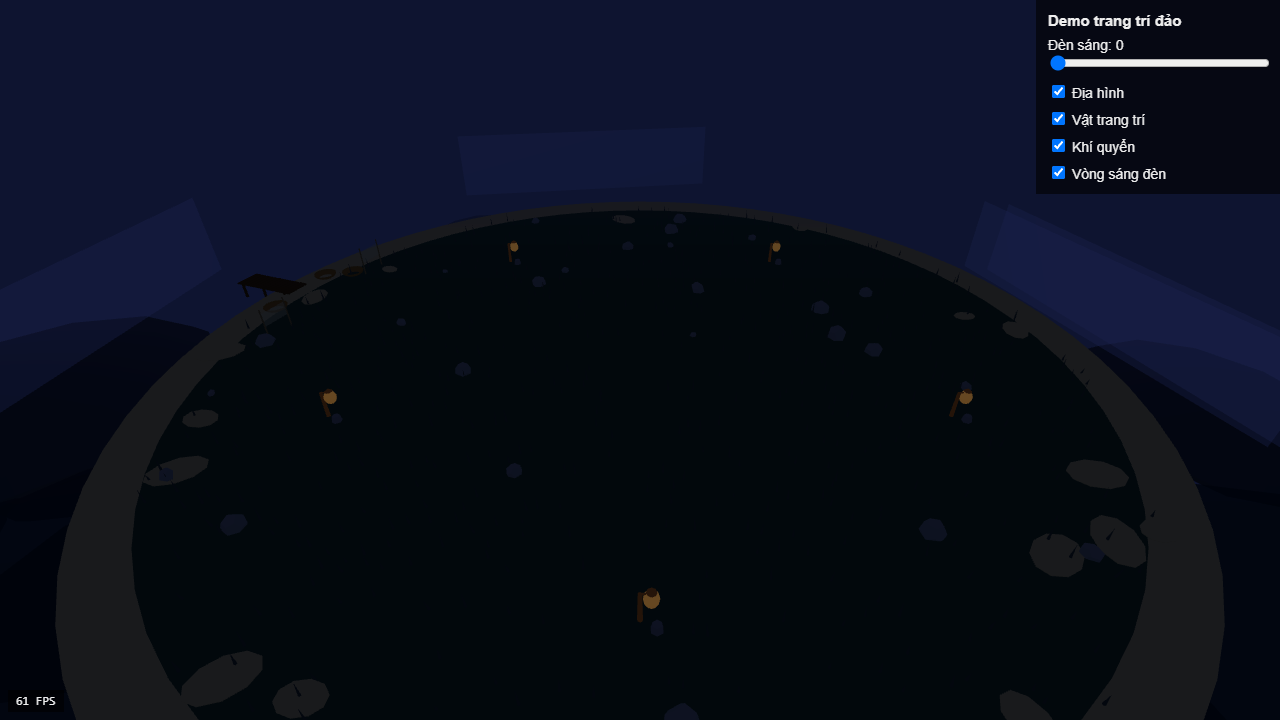
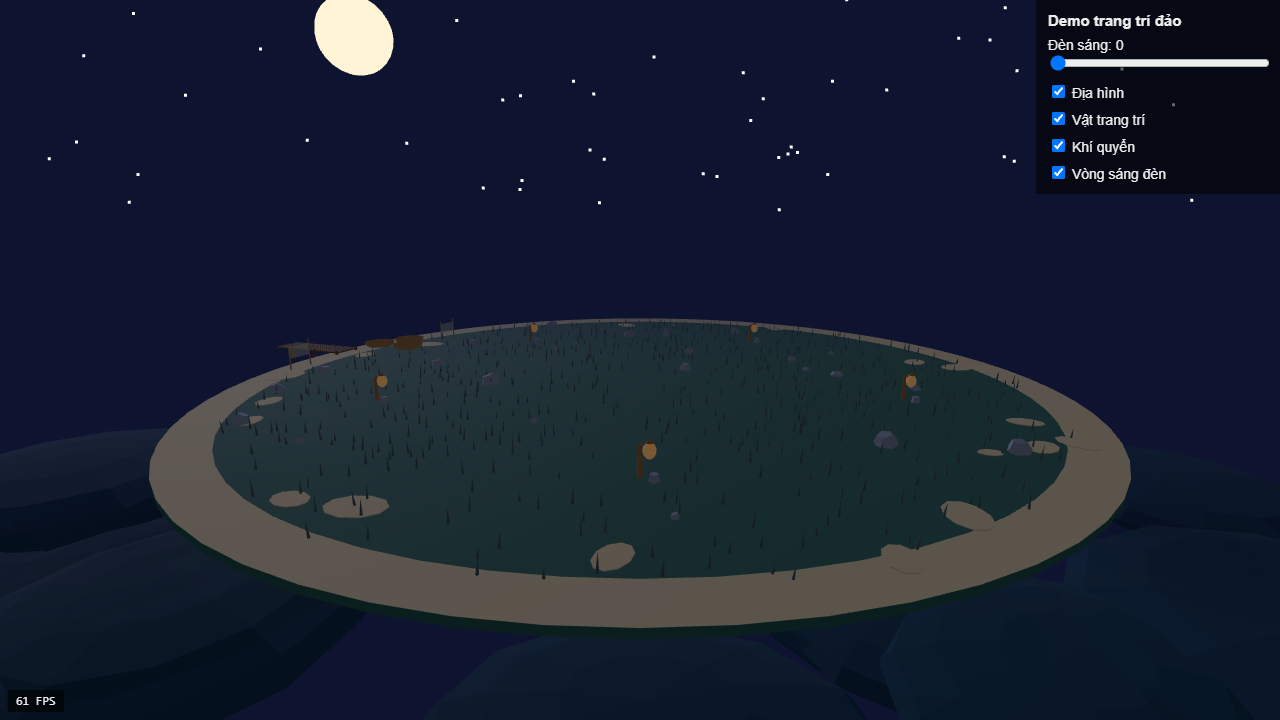
docs(decor): refresh demo evidence

diff --git a/evidence/decor-demo/README.md b/evidence/decor-demo/README.md
@@ -5,17 +5,18 @@
 (`lit` = so den long da sang, 0 den 5; co the keo thanh truot trong bang dieu khien).
 
 ## Anh chup (1280x720, Dem 1)
-- `night1-lit0.png` (`?lit=0`): dao toi, co moc, vat trang tri, den long tat (chi con than den, khong co vong sang), cau tau go ben trai, troi xanh dam.
-- `night1-lit5.png` (`?lit=5`): cung canh nhung 5 den long sang, vong sang vang quanh moi den chieu len co va da, vien dao sang hon.
+- `night1-lit0.png` (`?lit=0`): troi dem co sao va trang trong khung hinh, dao toi voi co xanh duc, vien cat am, suong mo tham duoi vien dao (khong con o chu nhat), cau tau go va thuyen thung (da phong to) o ben trai, den long tat (khong co vong sang).
+- `night1-lit5.png` (`?lit=5`): cung canh, 5 den long sang voi vong sang vang quanh moi den, co quanh den chuyen sang xanh la.
+- Keo thanh truot ve 0 sau khi `lit=5`: vong sang va co tat het (da kiem tra, anh tam).
 
 Pham vi tam thoi: chi Dem 1 (CLI headless hien chi ho tro `--night 1`).
 
 ## FPS
 - lit=0: 61 FPS; lit=5: 61 FPS (doc tu phan tu `#fps` sau ~5 s).
 - Do trong trinh duyet headless/automation (chrome-devtools), co the khac tren may that.
-- Console: khong co loi (chi 404 `favicon.ico` o lan tai dau).
+- Console: khong co thong bao nao.
 
 ## Kiem tra khong anh huong
 - Headless: `node dist-headless/headless.mjs --seed 1 --night 1 --ticks 3600` sau `npm run build`, so voi baseline truoc Task 1: `diff` rong (giong het, 76 dong). Dem 2/3: CLI tu choi (`only --night 1 is supported`), bo qua.
 - `git diff --stat 9292267..HEAD --diff-filter=M`: rong (khong sua file cu). `--diff-filter=D`: rong.
-- `npm test`: 19 file, 118 test, tat ca PASS.
+- `npm test`: 21 file, 125 test, tat ca PASS.
